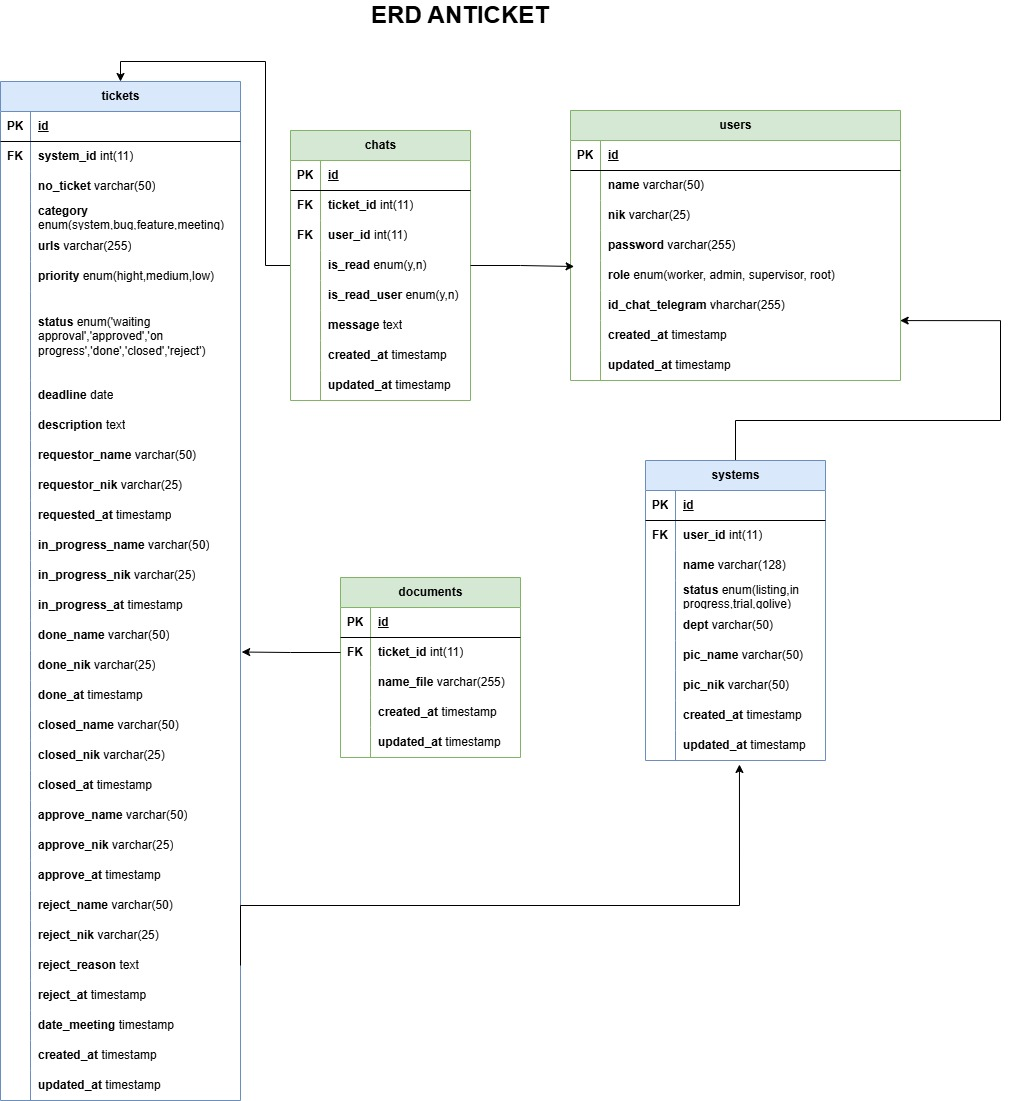
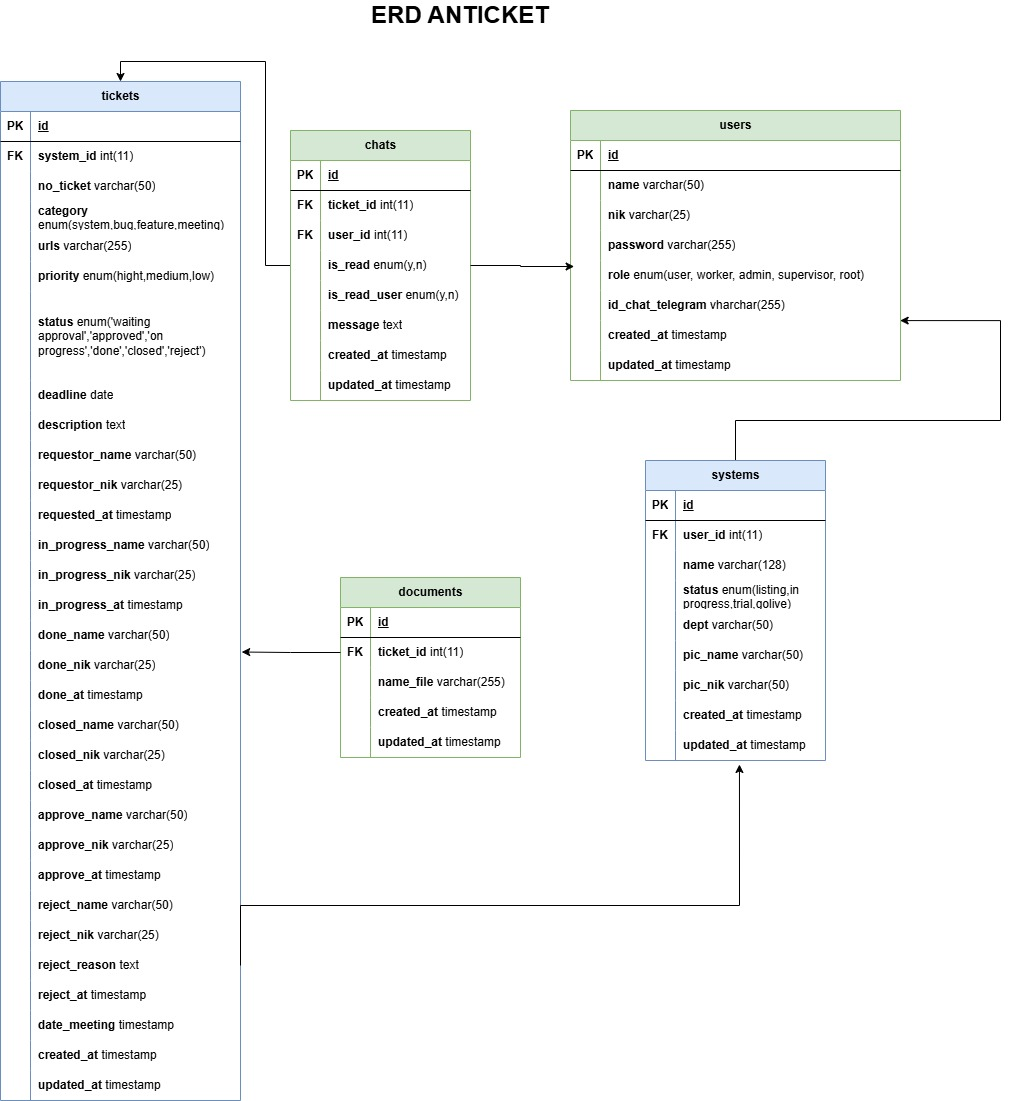
Create proc SeedUser() + Update Readme.MD

diff --git a/README.md b/README.md
@@ -1,11 +1,15 @@
 # anticket-ci3
-Ticket Management System Menggunakan Codeigniter 3, Bootstrap, jQuery, dan MySQL. Note: In Progress...
+Ticket Management System Menggunakan Codeigniter 3, Bootstrap, jQuery, dan MySQL. Status: In Progress...
 
 ## ERD
 <img src="document/ERD Anticket.jpg">
 
 ## Role
-1. Worker
-2. Admin
-3. Supervisor
-4. Root
+1. Root
+2. Worker
+3. Admin
+4. Supervisor
+
+## Config
+- Import SQL file yang terletak di folder database.
+- Ketik perintah `CALL migrationAll()` dan `CALL seedUser()`
